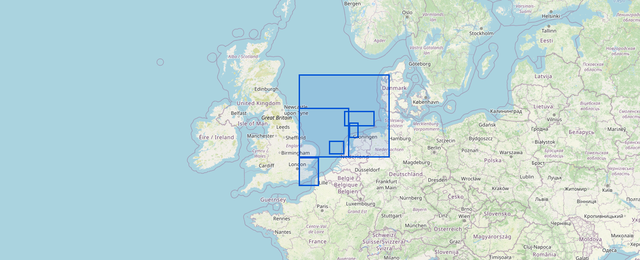
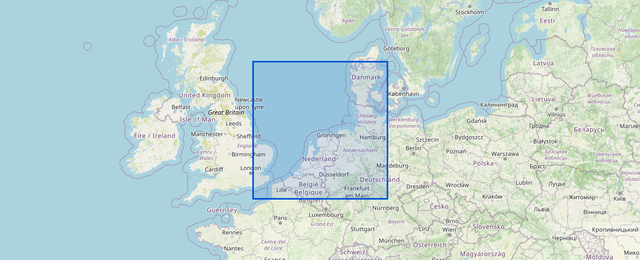
ModelArea image uses actual model grid extent from grib files
- Add model_bbox to model_meta.json (derived from grib grid coordinates):
  harm-nl-2km: 0,11.281,49,56.002
  arome-hd-1.3km: -12,16,37.5,55.4
- generate_area_images.py uses model_bbox for ModelArea (single rectangle),
  falling back to union of sub-areas if not set

diff --git a/scripts/generate_area_images.py b/scripts/generate_area_images.py
@@ -228,11 +228,7 @@ def process_model(model_id):
     all_areas = meta["areas"]
     print(f"  {len(all_areas)} areas")
 
-    # Precompute all sub-area bboxes for the ModelArea overview
-    sub_bboxes = [
-        tuple(map(float, a["bbox"].split(",")))
-        for a in all_areas if a.get("bbox")
-    ]
+    model_bbox = meta.get("model_bbox")
 
     for area in all_areas:
         key = area["key"]
@@ -241,12 +237,18 @@ def process_model(model_id):
         if area.get("bbox"):
             lon_w, lon_e, lat_s, lat_n = map(float, area["bbox"].split(","))
             draw_boxes = [(lon_w, lon_e, lat_s, lat_n)]
+            label = f"bbox={area['bbox']}"
         else:
-            # ModelArea: show full coverage with all sub-area bboxes drawn
-            lon_w, lon_e, lat_s, lat_n = union_bbox(all_areas)
-            draw_boxes = sub_bboxes
+            # ModelArea: use actual model domain from model_bbox
+            if model_bbox:
+                lon_w, lon_e, lat_s, lat_n = map(float, model_bbox.split(","))
+                label = f"model_bbox={model_bbox}"
+            else:
+                lon_w, lon_e, lat_s, lat_n = union_bbox(all_areas)
+                label = "union bbox (fallback)"
+            draw_boxes = [(lon_w, lon_e, lat_s, lat_n)]
 
-        print(f"  [{key}] {'bbox=' + area['bbox'] if area.get('bbox') else 'union bbox'}")
+        print(f"  [{key}] {label}")
         generate_area_image(lon_w, lon_e, lat_s, lat_n, out_file, draw_boxes=draw_boxes)
 
 
